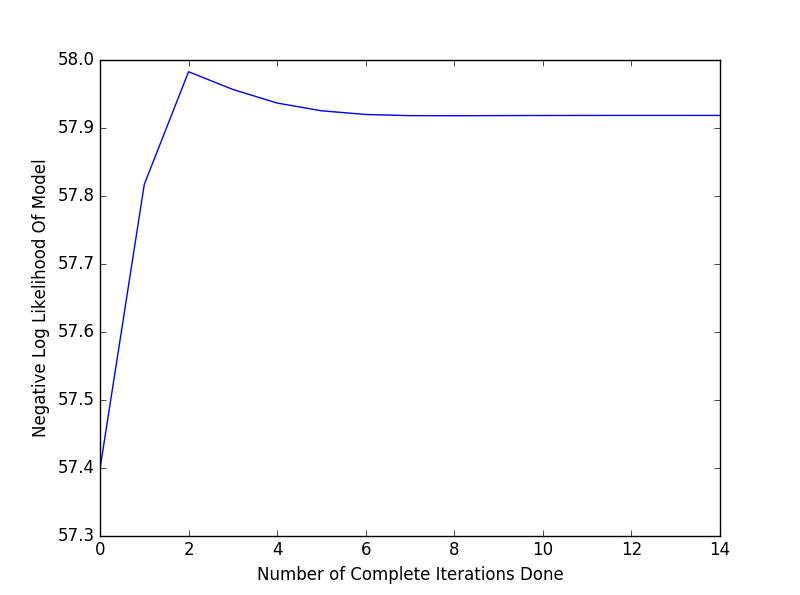
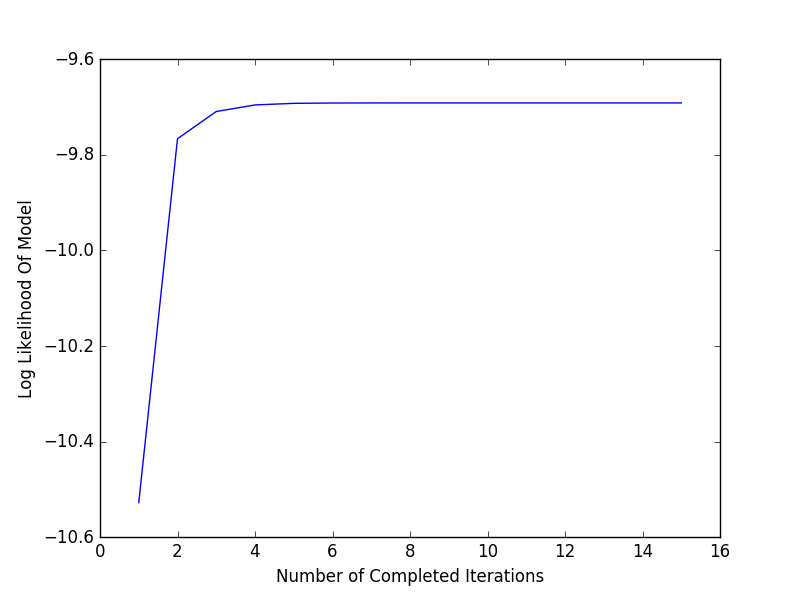
write up almost done

diff --git a/HW2/HW2Write/HW2solution.tex b/HW2/HW2Write/HW2solution.tex
@@ -342,8 +342,6 @@ Here are the first 5 empirical marginal probabilities
 \end{lstlisting}
 \newpage
 \subsection*{Part C}
-
-The log partition function stayed constant with a value of $20.7944154168$. \\
 To run IPF, I first initialized the model:
 
 \begin{lstlisting}
@@ -354,20 +352,15 @@ nEdges,cc = edges.shape
 gmNodes = [gm.Var(i,2) for i in range(nEdges)]
 probNodes = [gm.Var(i,2) for i in range(nEdges)]
 gmFactors = []
-probFactors = []
 for ee in range(nEdges):
     jj = int(edges[ee,0])
     kk = int(edges[ee,1])
     gmFactors.append(gm.Factor([gmNodes[jj], gmNodes[kk]], 1.0))
-    probFactors.append(gm.Factor([probNodes[jj], probNodes[kk]], 1.0))
-
-    #fills the table with probabilities
     inputFactor = np.matrix(np.ones((2, 2)))
     gmFactors[ee].table = inputFactor
-    probFactors[ee].table = probXjk[jj, kk, :, :]
 \end{lstlisting}
 
-\newpage
+\newpage 
 
 After initialization, this is the code I used to run IPF:
 
@@ -376,27 +369,12 @@ After initialization, this is the code I used to run IPF:
 sumElim = lambda F,Xlist: F.sum(Xlist)   # helper function for eliminate
 
 numIter=15
-totalEnt = numIter*nEdges
 logLikeIter = np.zeros(numIter)
-logLikeAll = np.zeros(totalEnt)
-arrInd = 0
 for iterI in range(numIter):
-    print 'Now computing Iteration: ',iterI
     for ee in range(nEdges):
-        # computes the likelihood of the current probabilistic model
-        curLog = 0
-        probModel = gm.GraphModel(probFactors)
-        for ptNum in range(m):
-            curLog += probModel.logValue(D[ptNum, :])
-        curLog = -curLog / m
-        logLikeAll[arrInd] = curLog
-        arrInd += 1
-
-        #current edge
         jj = int(edges[ee, 0])
         kk = int(edges[ee, 1])
 
-        #does variable elimination to get p_jk value
         currentFactors = copy.deepcopy(gmFactors)
         curModel = gm.GraphModel(currentFactors)
         pri = [1.0 for Xi in currentFactors]
@@ -405,32 +383,58 @@ for iterI in range(numIter):
         curModel.eliminate(order[:-2], sumElim)  # eliminate all but last two
         curP = curModel.joint()
         curLnZ = np.log(curP.sum())
-        print 'lnZ: ', curLnZ
         curP /= curP.sum()
 
-        #update the current f_jk value
-        currentFij = gmFactors[ee].table
-        probRatio = np.matrix(np.divide(probXjk[jj,kk,:,:],curP.table))
-        newFij = np.multiply(currentFij,probRatio)
+        newFij = gmFactors[ee].table*probXjk[jj,kk,:,:]/curP.table
         gmFactors[ee].table = newFij
 
-        #update the probabilistic model
-        newFijNorm = newFij/newFij.sum()
-        probFactors[ee].table = newFijNorm
-
+    # computes the likelihood of the current model
+    curLog = 0
+    probModel = gm.GraphModel(gmFactors)
+    for ptNum in range(m):
+        curLog += probModel.logValue(D[ptNum, :])#-curLnZ
+    curLog = curLog / m - curLnZ
     logLikeIter[iterI] = curLog
+    print 'lnZ: ', curLnZ
 
+plt.plot(range(1,numIter+1),logLikeIter)
+plt.xlabel('Number of Completed Iterations')
+plt.ylabel('Log Likelihood Of Model')
+plt.show()
+
+print logLikeIter
 \end{lstlisting}
 \newpage
 
-Here is the negative log-likelihood after each iteration (starting from 0):
+Here is the graph of log likelihood vs iteration number:
 
 \begin{figure}[h]
 \centering
 \includegraphics[width=6in]{prob2cPlot2.png}
-\caption{Neg LL after running IPF}
+\caption{Log likelihood after running IPF}
 \end{figure}
 
-It finally converged to a value of $57.91773114$
+The log partition function stayed constant with the following value:\\
+$20.7944154168$\\
+\\
+These were the printed log likelihood values: \\
+\begin{lstlisting}
+-10.52755241
+-9.76622834
+-9.70930548
+-9.69557976
+-9.69224636
+-9.6915535
+-9.69141484
+-9.69138601
+-9.69137972
+-9.6913783
+-9.69137794
+-9.69137784
+-9.69137781
+-9.6913778
+-9.6913778
+\end{lstlisting}
+Thus it converged to a value of $-9.6913778$
 
 \end{document}

diff --git a/HW2/HW2Code/problem2.py b/HW2/HW2Code/problem2.py
@@ -147,7 +147,7 @@ logLikeIter = np.zeros(numIter)
 logLikeAll = np.zeros(totalEnt)
 arrInd = 0
 for iterI in range(numIter):
-    print 'Now computing Iteration: ',iterI
+    #print 'Now computing Iteration: ',iterI
     for ee in range(nEdges):
         #print 'Now processing edge: ',ee
         #print jj,kk
@@ -190,12 +190,12 @@ for iterI in range(numIter):
         curLog += probModel.logValue(D[ptNum, :])#-curLnZ
     curLog = curLog / m - curLnZ
     logLikeIter[iterI] = curLog
-    print 'logLike: ',curLog
-    print 'lnZ: ', curLnZ
+    #print 'logLike: ',curLog
+    #print 'lnZ: ', curLnZ
 
 
-plt.plot(logLikeIter)
-plt.xlabel('Number of Complete Iterations Done')
+plt.plot(range(1,numIter+1),logLikeIter)
+plt.xlabel('Number of Completed Iterations')
 plt.ylabel('Log Likelihood Of Model')
 plt.show()
 
